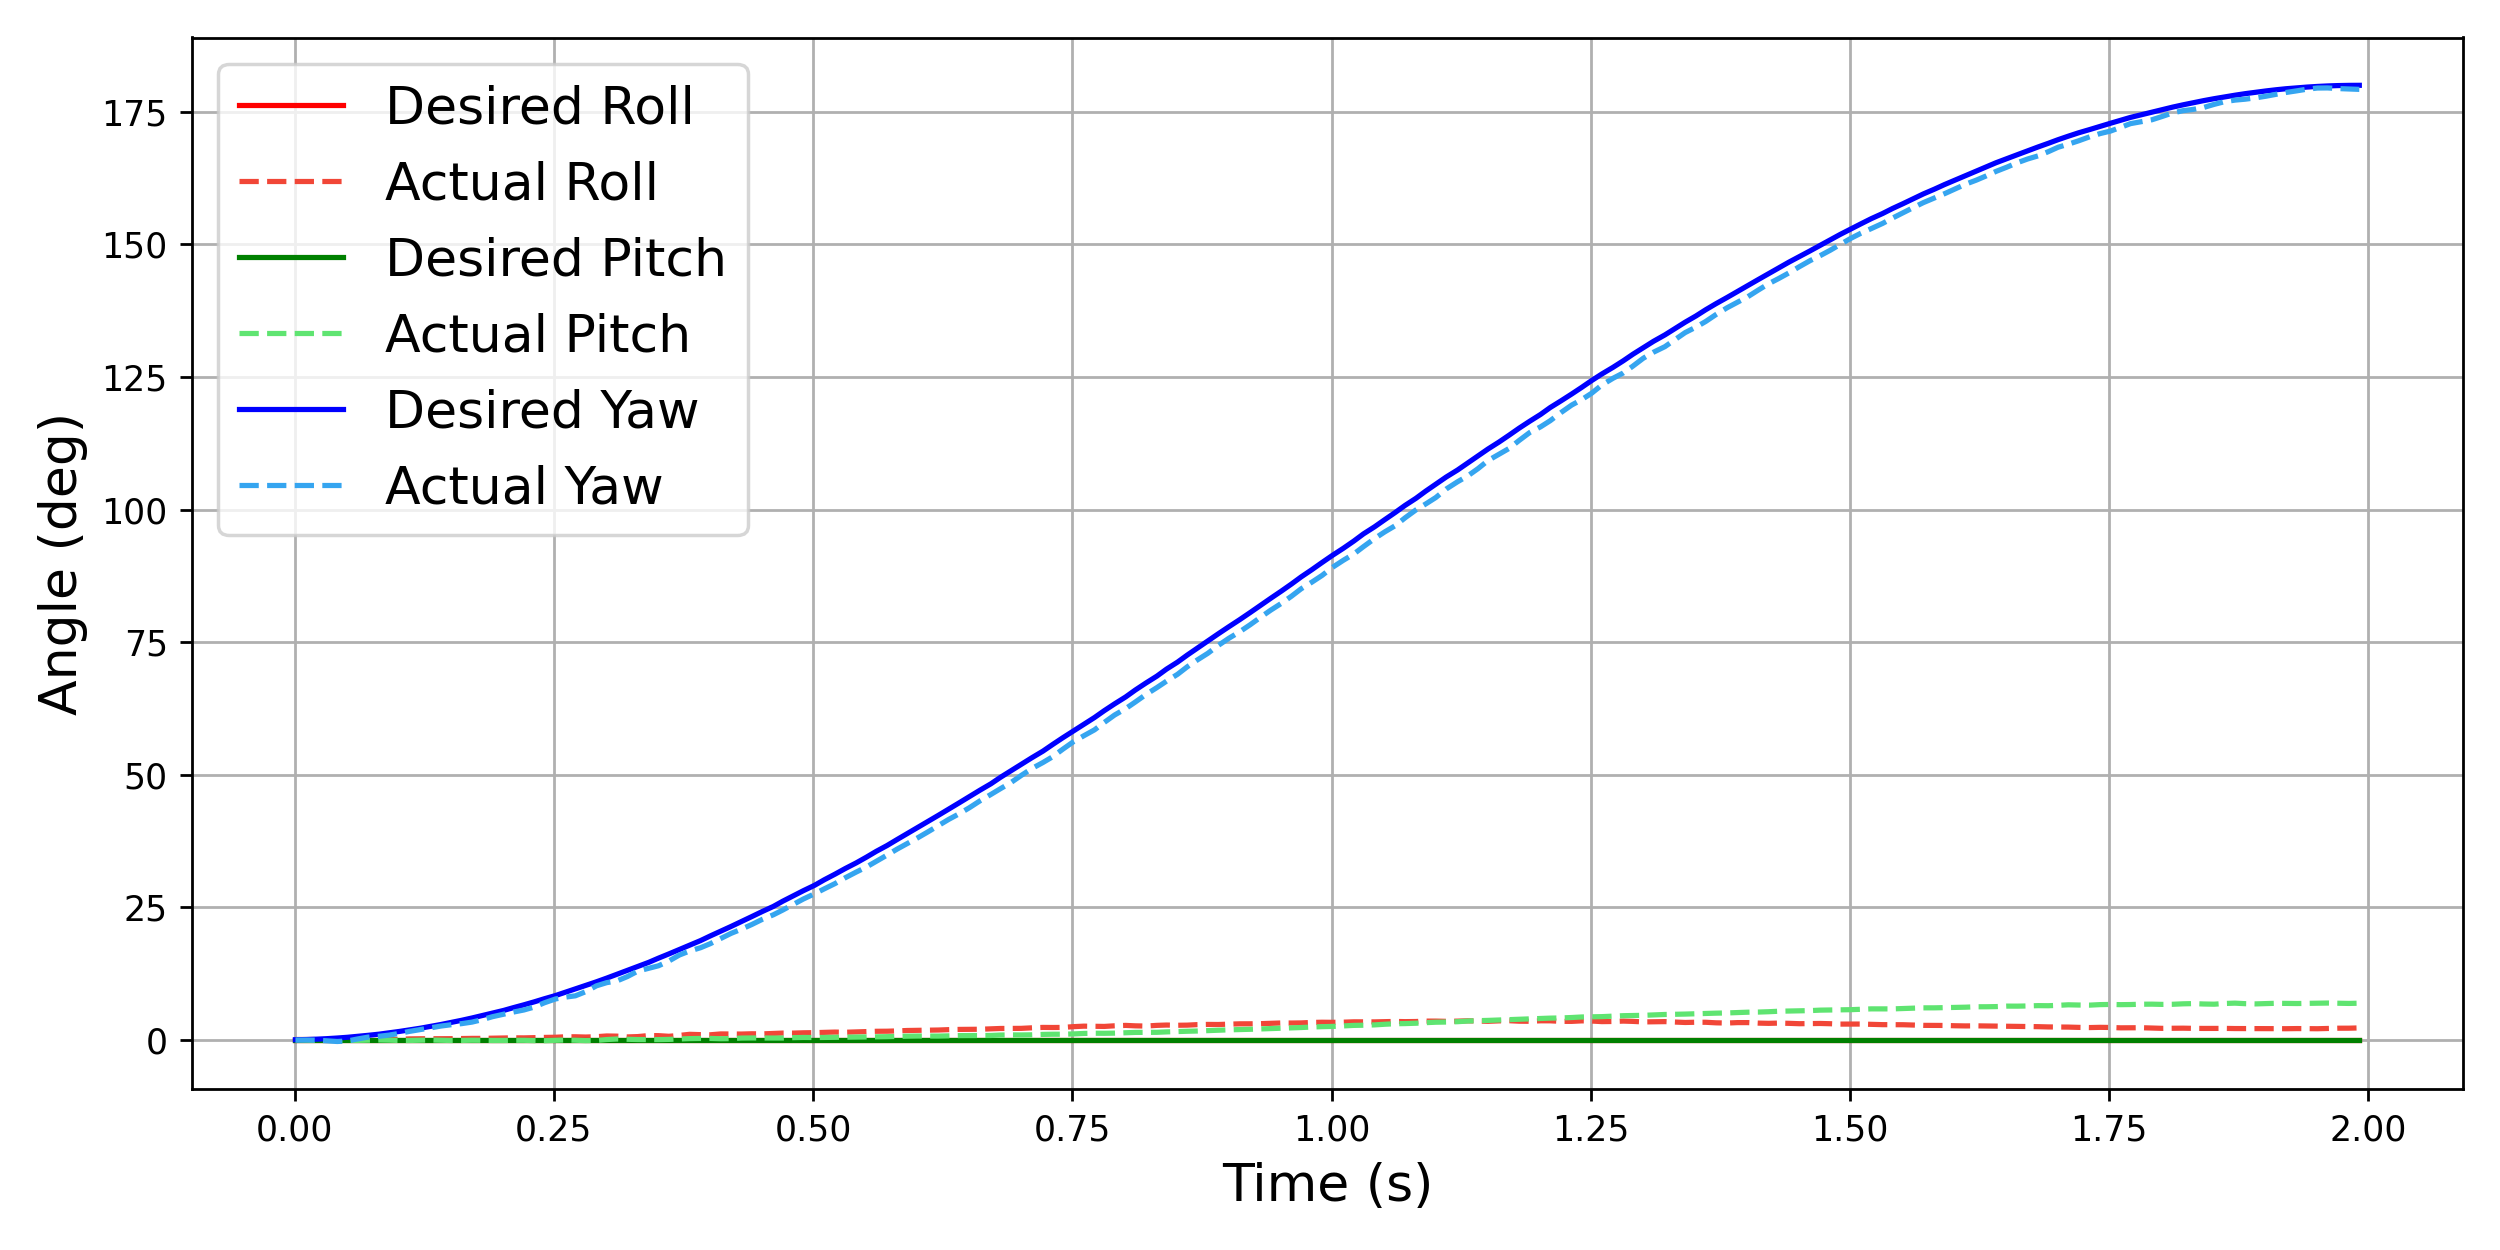
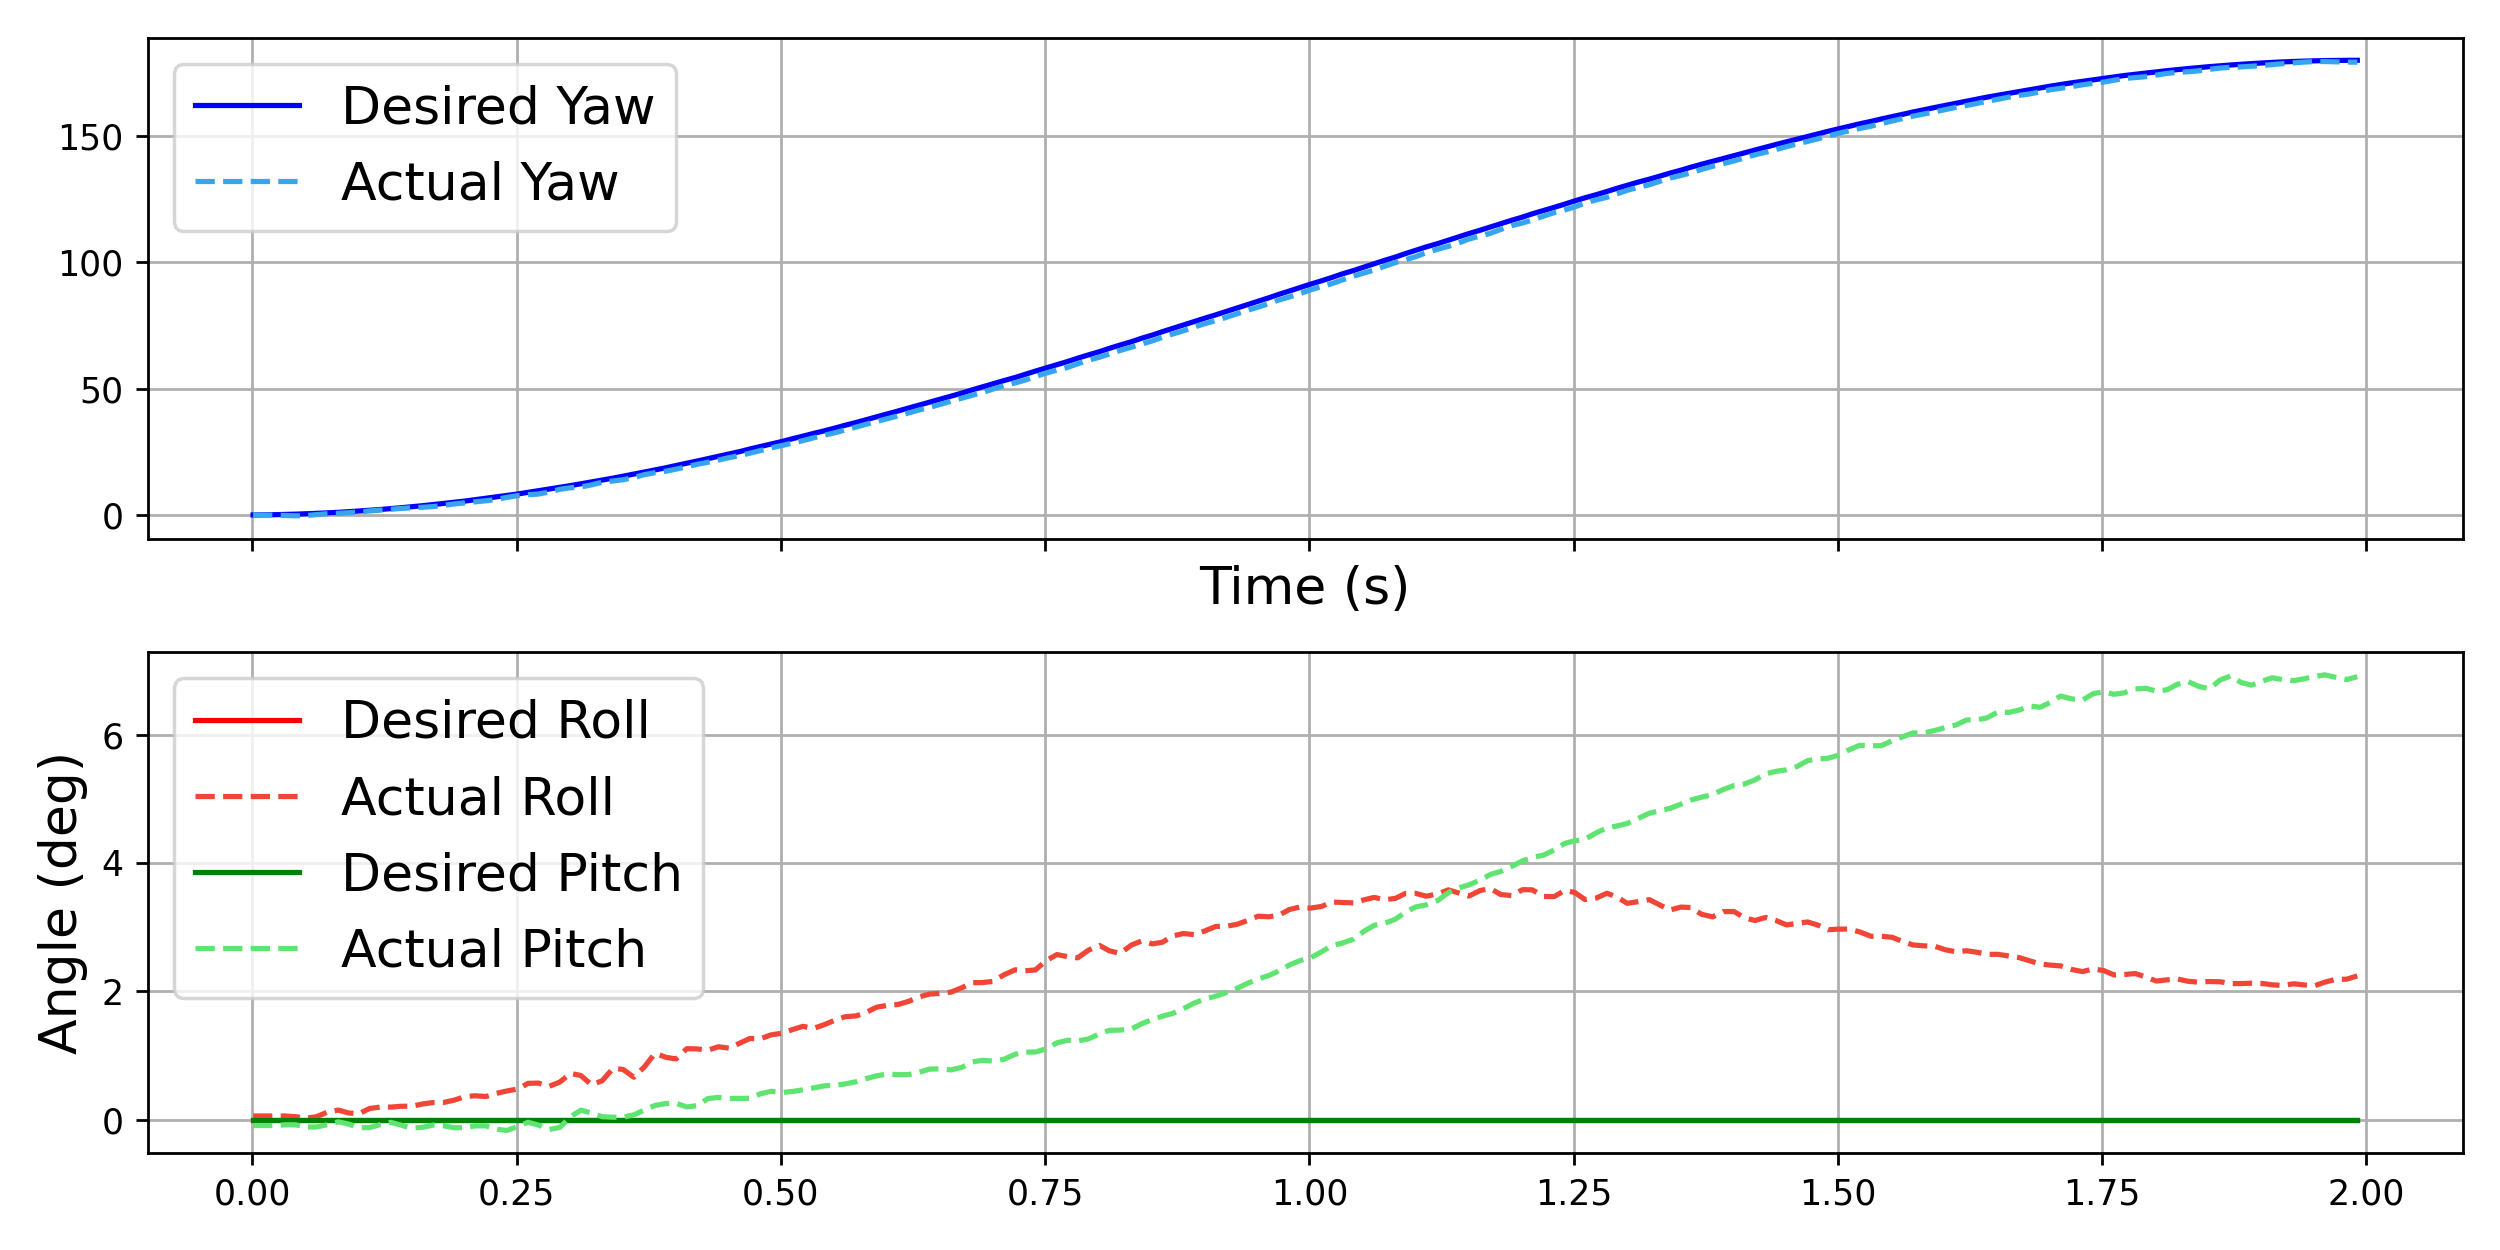
separate yaw and roll/pitch plots

diff --git a/spm_ws/src/testing/ex_abs_iro2026.py b/spm_ws/src/testing/ex_abs_iro2026.py
@@ -31,19 +31,20 @@ roll_a  = np.array([r[4] for r in euler_rows])
 pitch_a = np.array([r[5] for r in euler_rows])
 yaw_a   = np.array([r[6] for r in euler_rows])
 
-fig, ax = plt.subplots(figsize=(10, 5))
+fig, ax = plt.subplots(2, 1, figsize=(10, 5), sharex=True)
 
-ax.plot(ts, roll_d, label="Desired Roll", color="red")
-ax.plot(ts, roll_a, "--", label="Actual Roll", color="#F14637")
-ax.set_ylabel("Angle (deg)", fontsize=15)
-ax.grid(True)
-ax.plot(ts, pitch_d, label="Desired Pitch", color="green")
-ax.plot(ts, pitch_a, "--", label="Actual Pitch", color="#5FE471")
-ax.grid(True)
-ax.plot(ts, yaw_d, label="Desired Yaw", color="blue")
-ax.plot(ts, yaw_a, "--", label="Actual Yaw", color="#35A5F0")
-ax.set_xlabel("Time (s)", fontsize=15)
-ax.grid(True)
-ax.legend(fontsize=15)
+ax[1].plot(ts, roll_d, label="Desired Roll", color="red")
+ax[1].plot(ts, roll_a, "--", label="Actual Roll", color="#F14637")
+ax[1].set_ylabel("Angle (deg)", fontsize=15)
+ax[1].grid(True)
+ax[1].plot(ts, pitch_d, label="Desired Pitch", color="green")
+ax[1].plot(ts, pitch_a, "--", label="Actual Pitch", color="#5FE471")
+ax[1].legend(fontsize=15)
+ax[0].grid(True)
+ax[0].plot(ts, yaw_d, label="Desired Yaw", color="blue")
+ax[0].plot(ts, yaw_a, "--", label="Actual Yaw", color="#35A5F0")
+ax[0].set_xlabel("Time (s)", fontsize=15)
+ax[0].grid(True)
+ax[0].legend(fontsize=15)
 fig.tight_layout()
 fig.savefig("180yaw.png", dpi=250)
